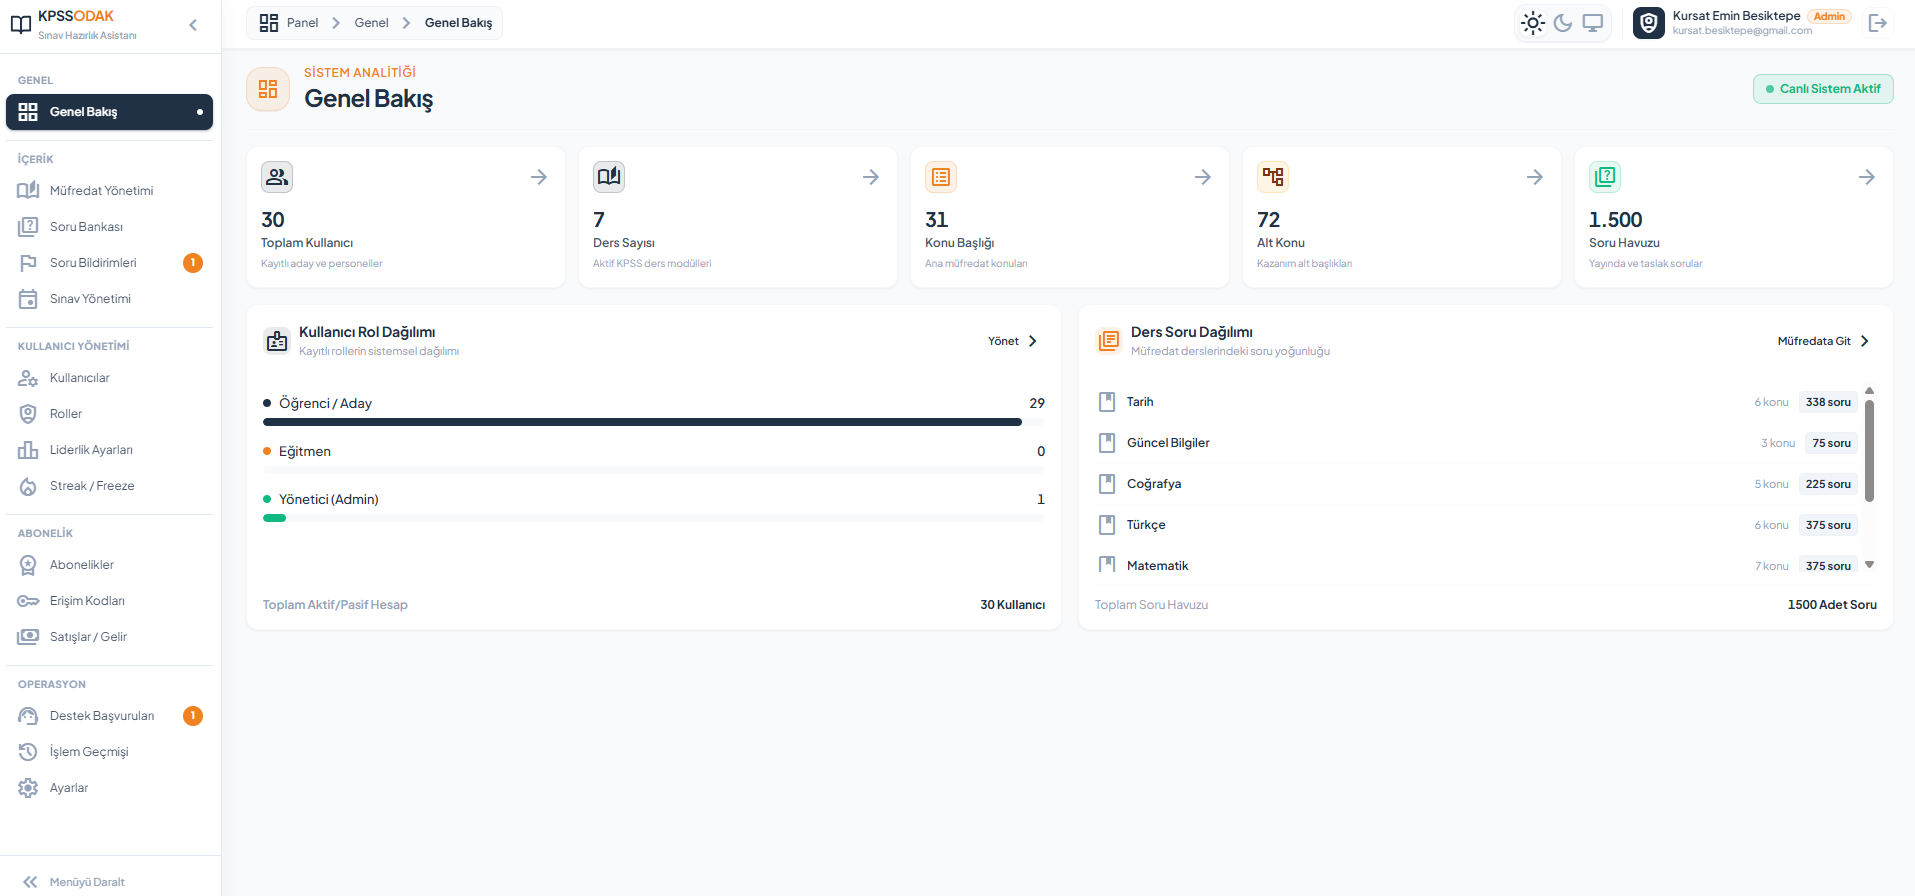
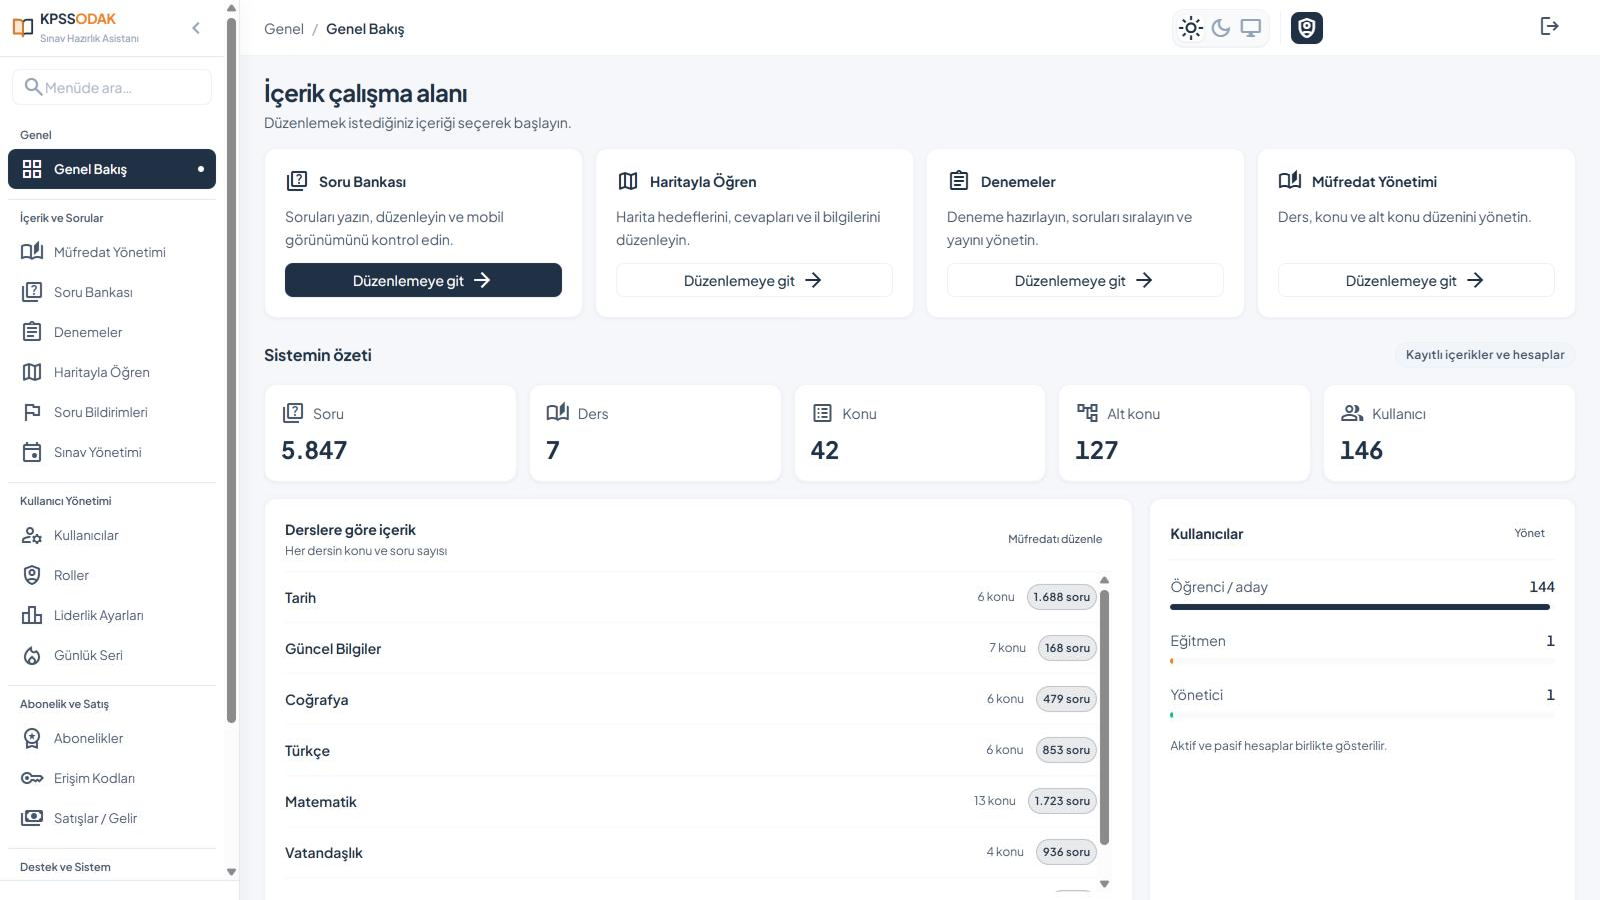
README güncellendi

diff --git a/docs/architecture.md b/docs/architecture.md
@@ -12,22 +12,24 @@ Bu sayfa portföy ziyaretçilerine ürünün genel yapısını anlatır. Kaynak 
 
 🌐 **Tanıtım sitesi**, ürünü ve mağaza bağlantılarını ziyaretçiye sunar.
 
-Mobil uygulama ve yönetim paneli aynı backend ile iletişim kurar. İçerik, değerlendirme ve erişim kuralları böylece ortak bir temelde yönetilir.
+Mobil uygulama ve yönetim paneli aynı sunucuyla iletişim kurar. İçerik, değerlendirme ve erişim kuralları böylece ortak bir temelde yönetilir.
 
 ## 🛠 Teknoloji tercihleri
 
-| Alan | Kullanılan yaklaşım |
-| --- | --- |
-| 📱 Mobil | React Native, Expo ve TypeScript |
-| 🖥 Yönetim paneli | React, Vite ve Tailwind CSS |
-| 🧠 Servisler | ASP.NET Core, C# ve Entity Framework Core |
-| 🗄 Sunucu verisi | SQL Server |
-| 🤖 Desteklenen Android içerik okuması | Sınırlı yerel SQLite deposu |
-| ✍ Tablet üzerinde çizim | Platforma özgü native çizim yüzeyleri |
+| Alan | Ne işe yarar | Kullanılan teknoloji |
+| --- | --- | --- |
+| 📱 Mobil uygulama | Tek kod tabanından iPhone ve Android uygulaması | React Native, Expo, TypeScript |
+| 🖥 Yönetim paneli | Tarayıcıda çalışan içerik ve hesap yönetimi | React, Vite, Tailwind CSS |
+| 🧠 Sunucu servisleri | Soru, deneme, puan ve üyelik kurallarını yürüten ortak sunucu | ASP.NET Core, C#, Entity Framework Core |
+| 🗄 Veritabanı | Hesap, içerik ve ilerleme kayıtlarının tutulduğu yer | SQL Server |
+| 🤖 Android'de hızlı içerik | Bazı içeriklerin cihazda saklanıp daha hızlı açılması | SQLite (cihaz içi veritabanı) |
+| ✍ Tablette çizim | Kalemle yazarken gecikmesiz, cihaza özgü çizim yüzeyi | Android Ink, Apple PencilKit |
+
+Teknoloji adları özel isim olduğu için özgün yazımlarıyla bırakıldı; ne işe yaradıkları yanlarında açıklandı.
 
 ## 🏗 Mimari yaklaşım
 
-Backend; HTTP giriş noktaları, uygulama iş kuralları, veri modelleri ve veritabanı erişimi olarak dört katmana ayrılır. Web ve mobil aynı ürün dilini paylaşır; arayüz bileşenleri her platformun ihtiyaçlarına göre geliştirilir.
+Sunucu tarafı; istek giriş noktaları, uygulama iş kuralları, veri modelleri ve veritabanı erişimi olarak dört katmana ayrılır. Web ve mobil aynı ürün dilini paylaşır; arayüz bileşenleri her platformun ihtiyaçlarına göre geliştirilir.
 
 Soru, şık ve çözüm gösteriminde ortak belge kuralları; yönetim arayüzünde tekrar kullanılan bileşenler; mobilde ise soru, deneme ve harita akışlarının ortak parçaları kullanılır.
 
@@ -37,7 +39,7 @@ Kimlik doğrulama, cevap değerlendirmesi, puanlama ve içerik erişiminde sunuc
 
 ## 🎯 Geliştirme odağı
 
-Okunabilir soru ekranları, tekrar kullanılabilir bileşenler, büyük listelerde sayfalama, kontrollü içerik okuması ve platforma uygun dokunma deneyimi ürünün başlıca mühendislik konularıdır. Cihaz ve native çizim davranışları ayrıca test gerektirir.
+Okunabilir soru ekranları, tekrar kullanılabilir bileşenler, büyük listelerde sayfalama, kontrollü içerik okuması ve platforma uygun dokunma deneyimi ürünün başlıca mühendislik konularıdır. Cihaza özgü çizim davranışları ayrıca test gerektirir.
 
-Uygulama içi güncellemeler yalnız uyumlu paketlerde kullanılır; native değişiklikler yeni mağaza paketi gerektirebilir. Bu depo ürün tanıtımıdır; tüm sürümlerin teknik kabul kaydı veya kaynak kod dağıtımı değildir.
+Uygulama içi güncellemeler yalnız uyumlu paketlerde kullanılır; cihaza özgü değişiklikler yeni mağaza paketi gerektirebilir. Bu depo ürün tanıtımıdır; tüm sürümlerin teknik kabul kaydı veya kaynak kod dağıtımı değildir.
 
